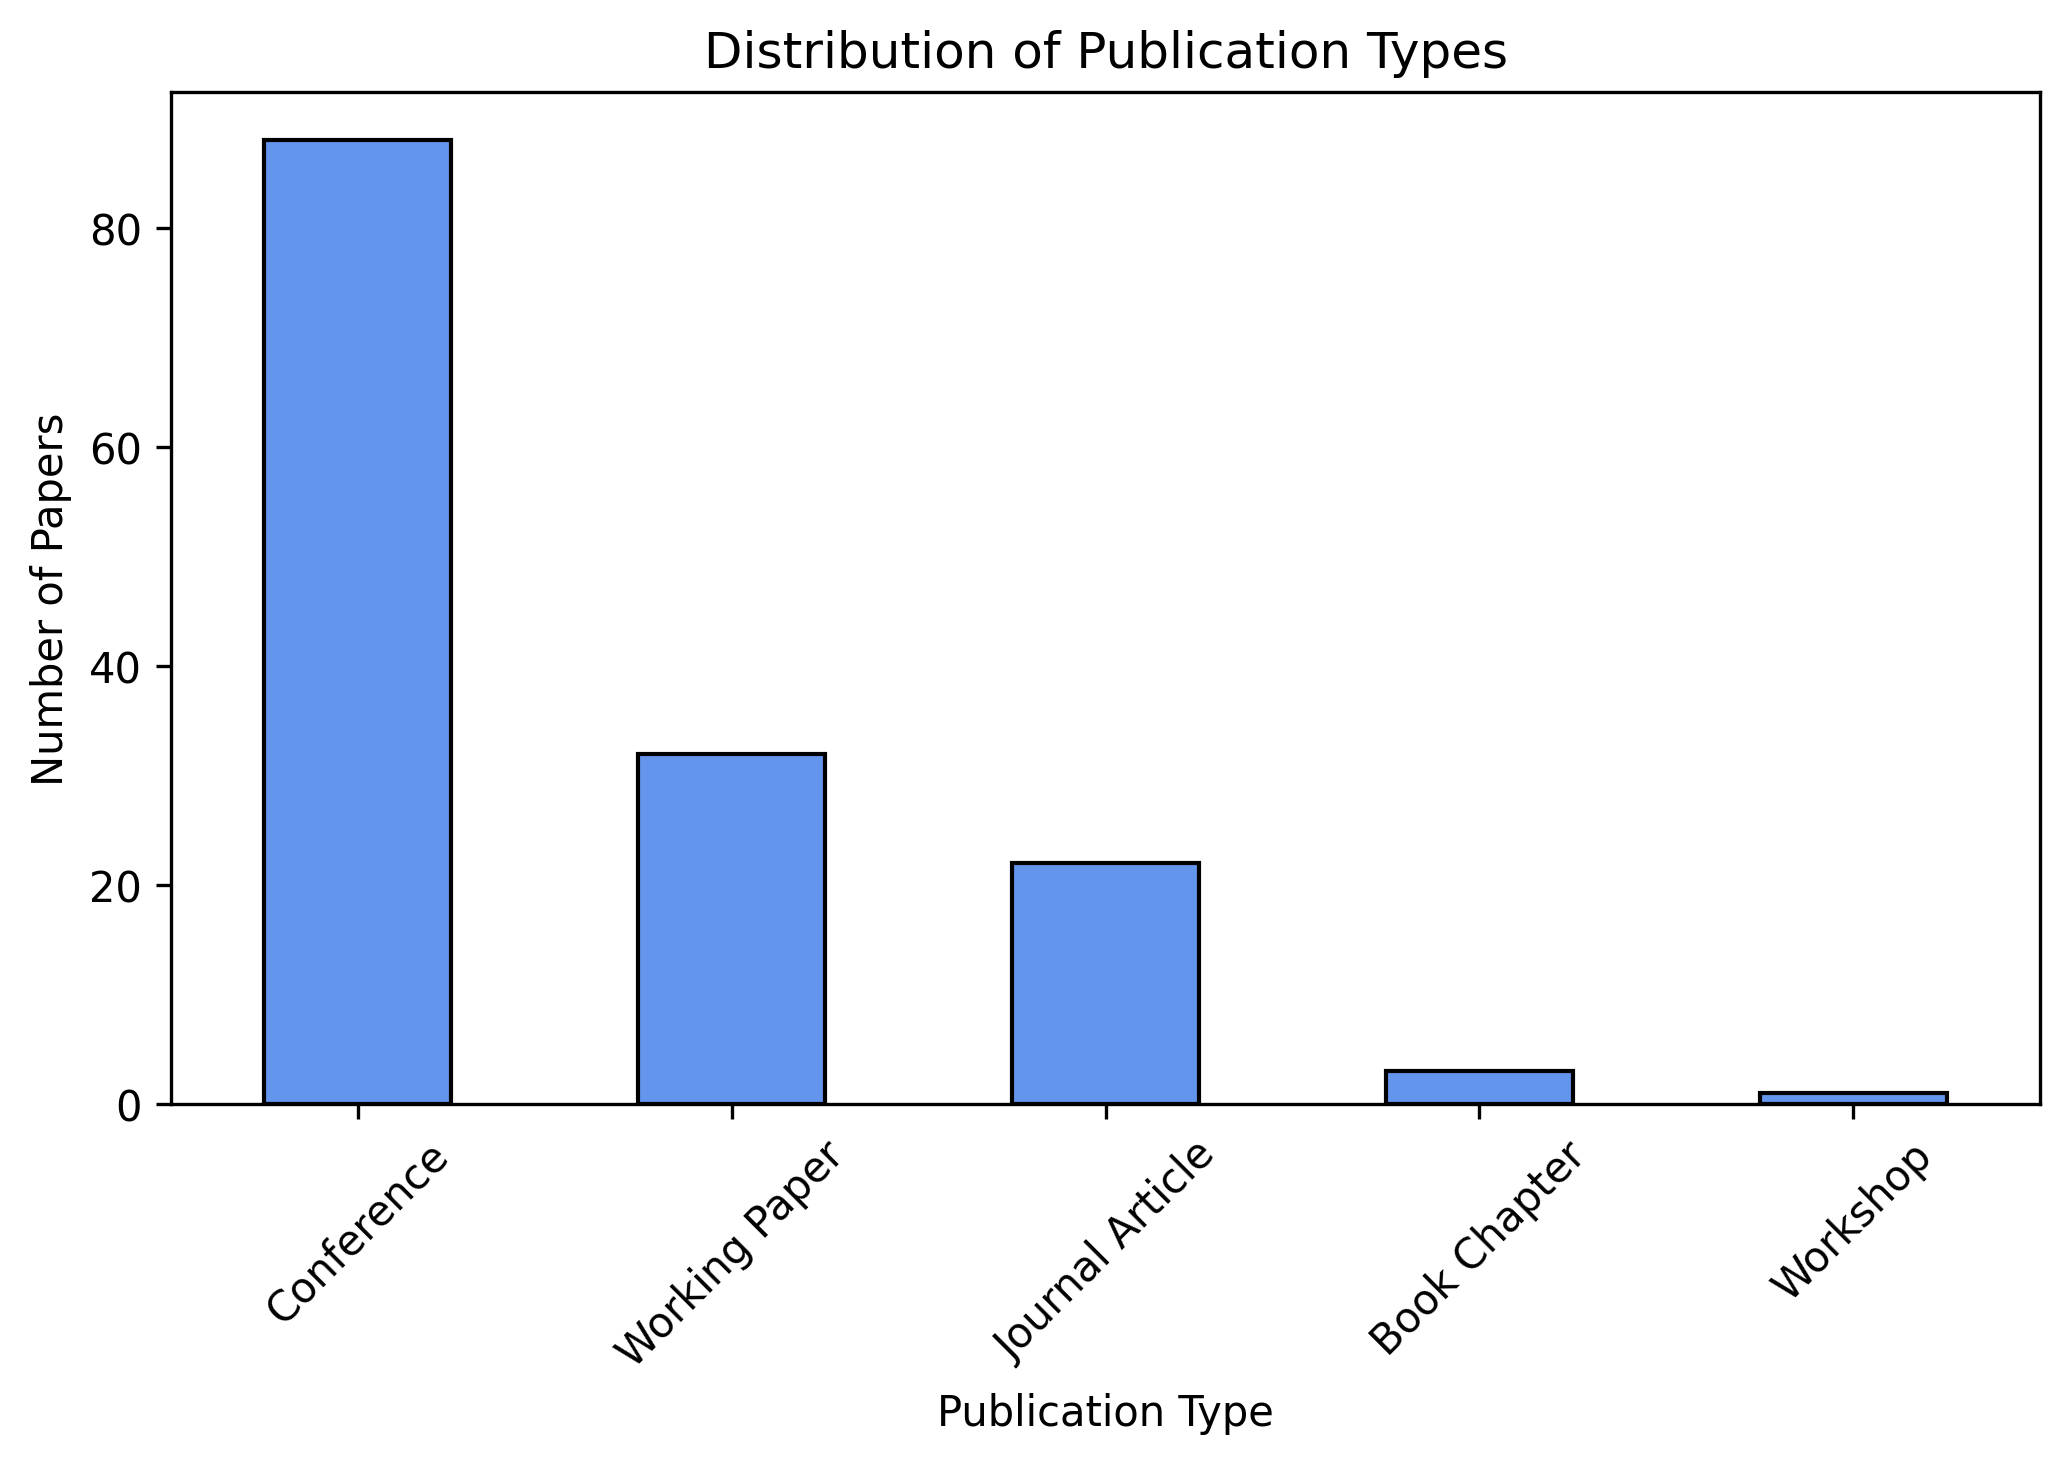
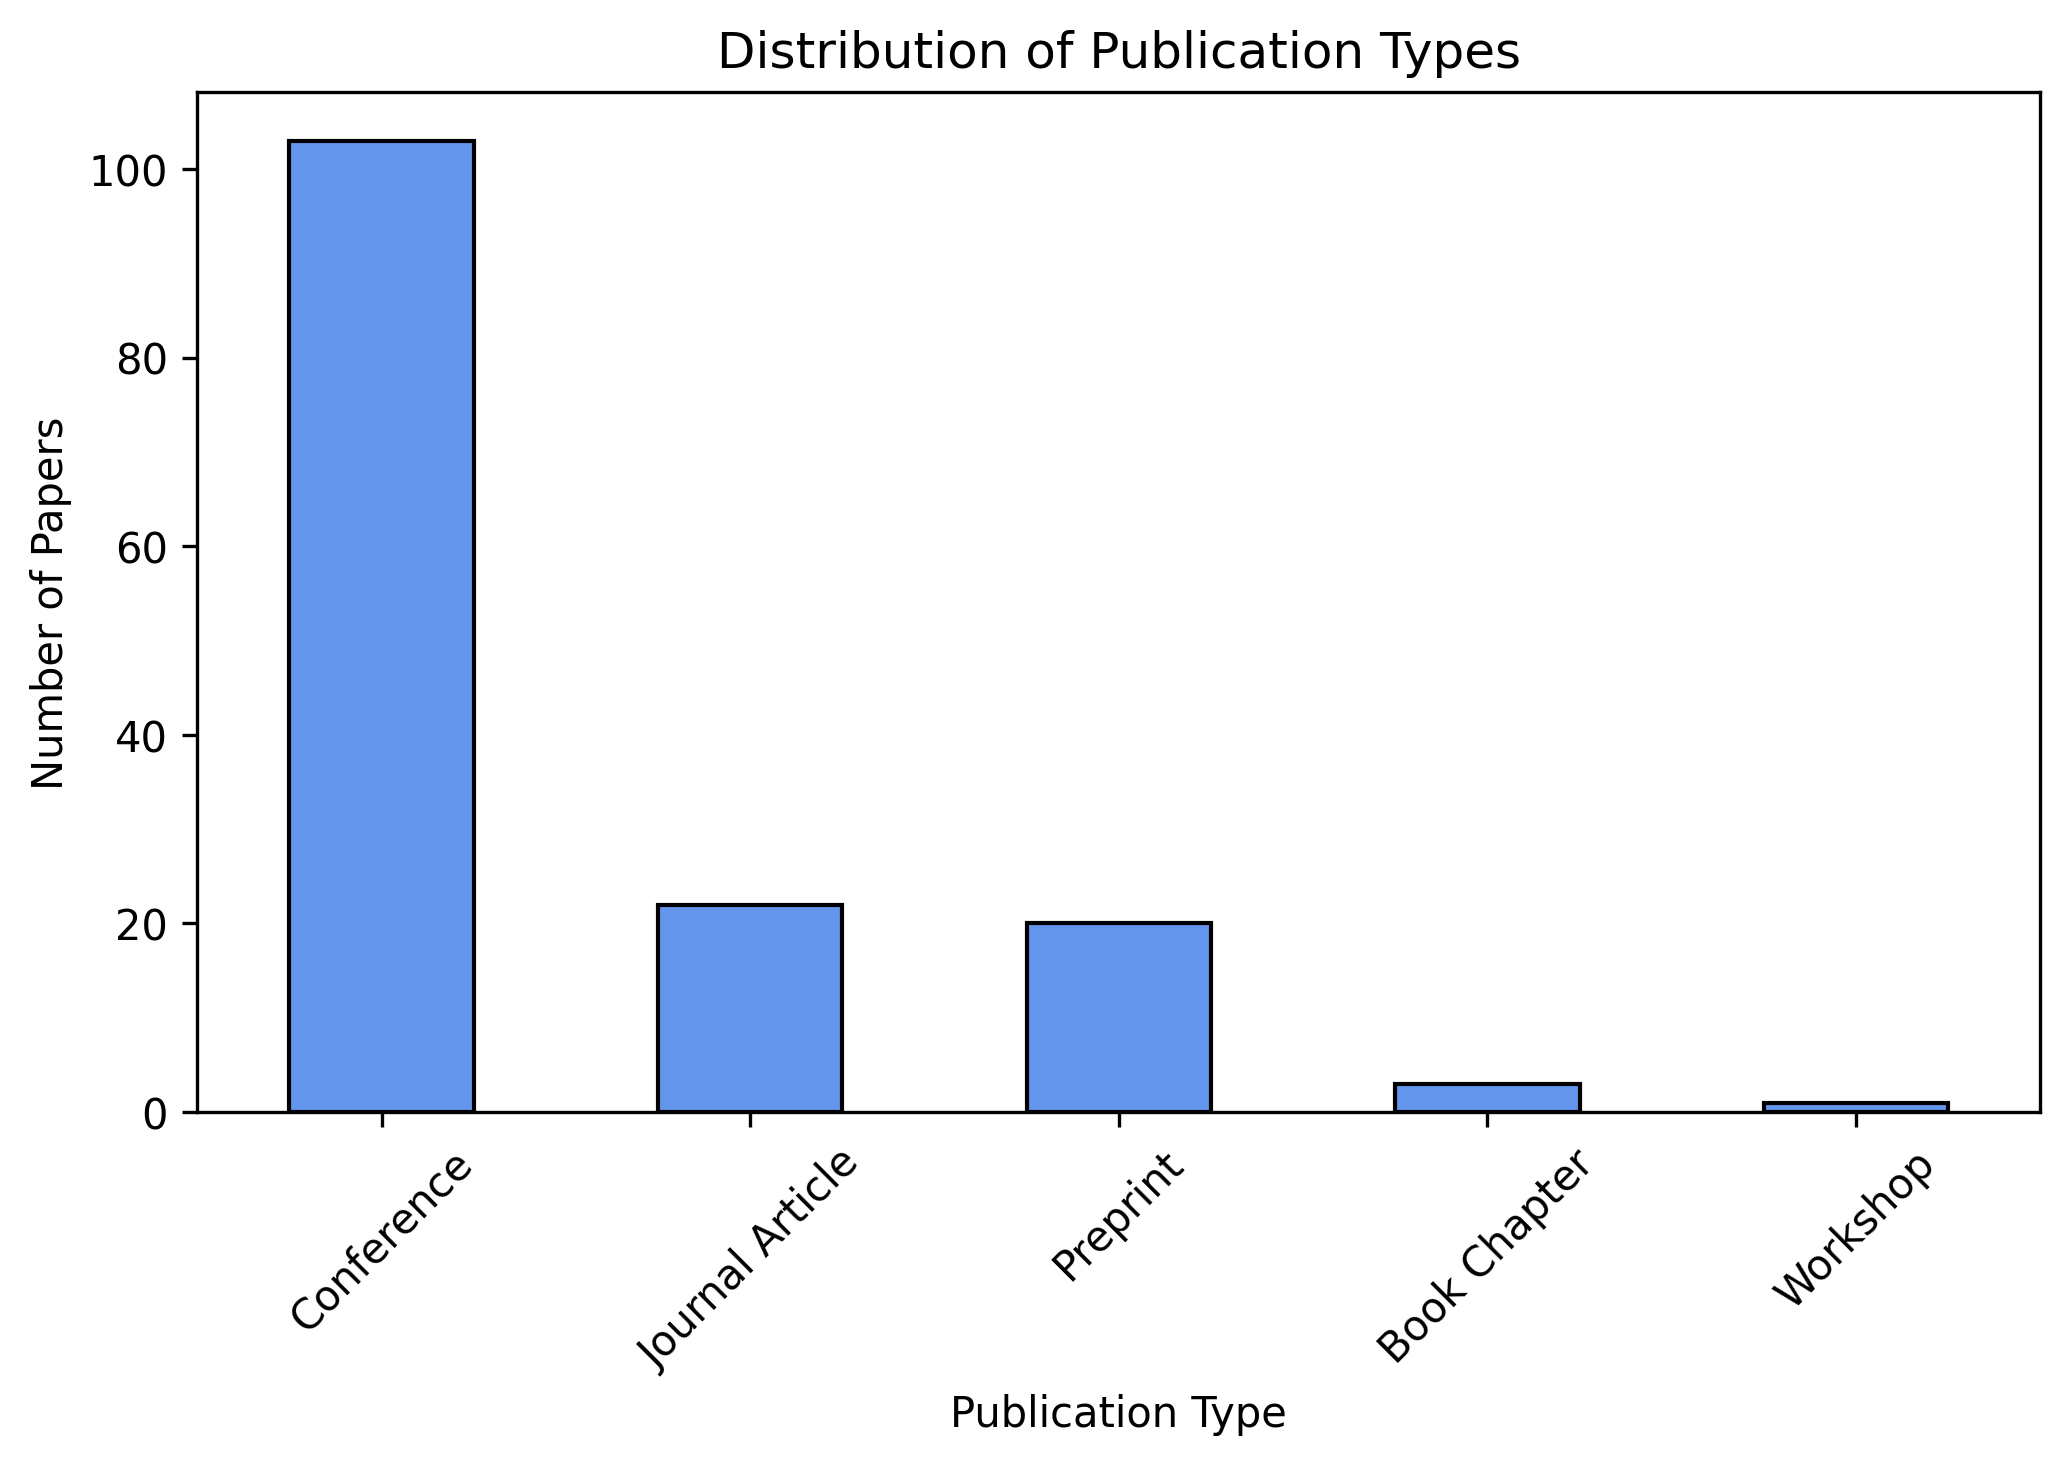
update

diff --git a/find-duplicate-affliation.py b/find-duplicate-affliation.py
@@ -1,0 +1,41 @@
+import csv
+
+def process_csv(file_path):
+    results = []
+    
+    with open(file_path, 'r', encoding='utf-8') as csv_file:
+        reader = csv.DictReader(csv_file)
+        # Strip whitespace from headers
+        reader.fieldnames = [h.strip() for h in reader.fieldnames]
+        
+        for row in reader:
+            paper_id = row.get('BE', '(missing)')
+            
+            # Count authors
+            if row.get('Number_Authors', '').strip():
+                num_authors = int(row['Number_Authors'])
+            else:
+                num_authors = 0
+                for i in range(1, 11):
+                    author_key = f'Author_{i}'
+                    if row.get(author_key, '').strip().lower() not in ('na', ''):
+                        num_authors += 1
+            
+            # Count affiliations
+            num_affiliations = 0
+            for i in range(1, 13):
+                aff_key = f'Affiliation_{i}'
+                if row.get(aff_key, '').strip().lower() not in ('na', ''):
+                    num_affiliations += 1
+            
+            # Compare
+            if num_affiliations > num_authors:  # Change to >= if you want equality too
+                results.append(paper_id)
+    
+    return results
+
+
+# Run
+file_name = "./tracing-the-evolution-of-word-embeddings-in-nlp-copy.csv"
+results = process_csv(file_name)
+print("Results:", results)
